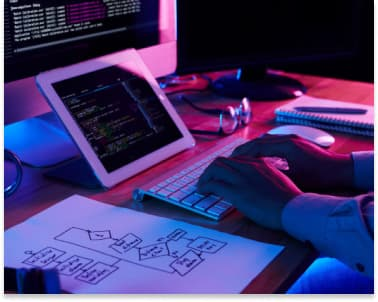
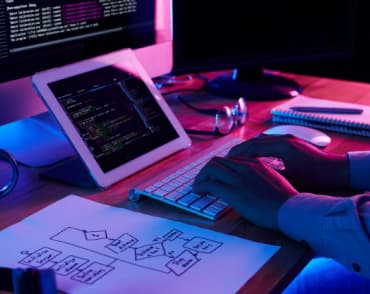
goit-markup-hw-05

diff --git a/index.html b/index.html
@@ -103,12 +103,12 @@
         <h2 class="speciality-titel">Чим ми займаємося</h2>
         <ul class="speciality-list">
           <li class="speciality-item">
-            <img class="speciality-image" src="./images/box1.jpg" alt="Розробник пише код" width="370" />
+            <img class="speciality-image" src="./images/box1.jpg" alt="Розробник пише код" width="370" height="294" />
             <p class="speciality-overlay">Десктопні додатки</p>
           </li>
           <li class="speciality-item">
             <img class="speciality-image" src="./images/box2.jpg" alt="Користувач підключає телефон до ноутбуку"
-              width="370" />
+              width="370" height="294" />
             <p class="speciality-overlay">Мобільні додатки</p>
           </li>
           <li class="speciality-item">

diff --git a/css/styles.css b/css/styles.css
@@ -322,6 +322,8 @@ body {
   display: block;
   max-width: 100%;
   height: auto;
+  width: 370px;
+  height: 294px
 }
 
 .speciality-overlay {
@@ -342,7 +344,7 @@ body {
   color: var(--primary-color);
   background: var(--background-speciality-img);
 
-  transform: translateY(100%);
+  
   transition: transform 250ms cubic-bezier(0.4, 0, 0.2, 1);
 }
 
